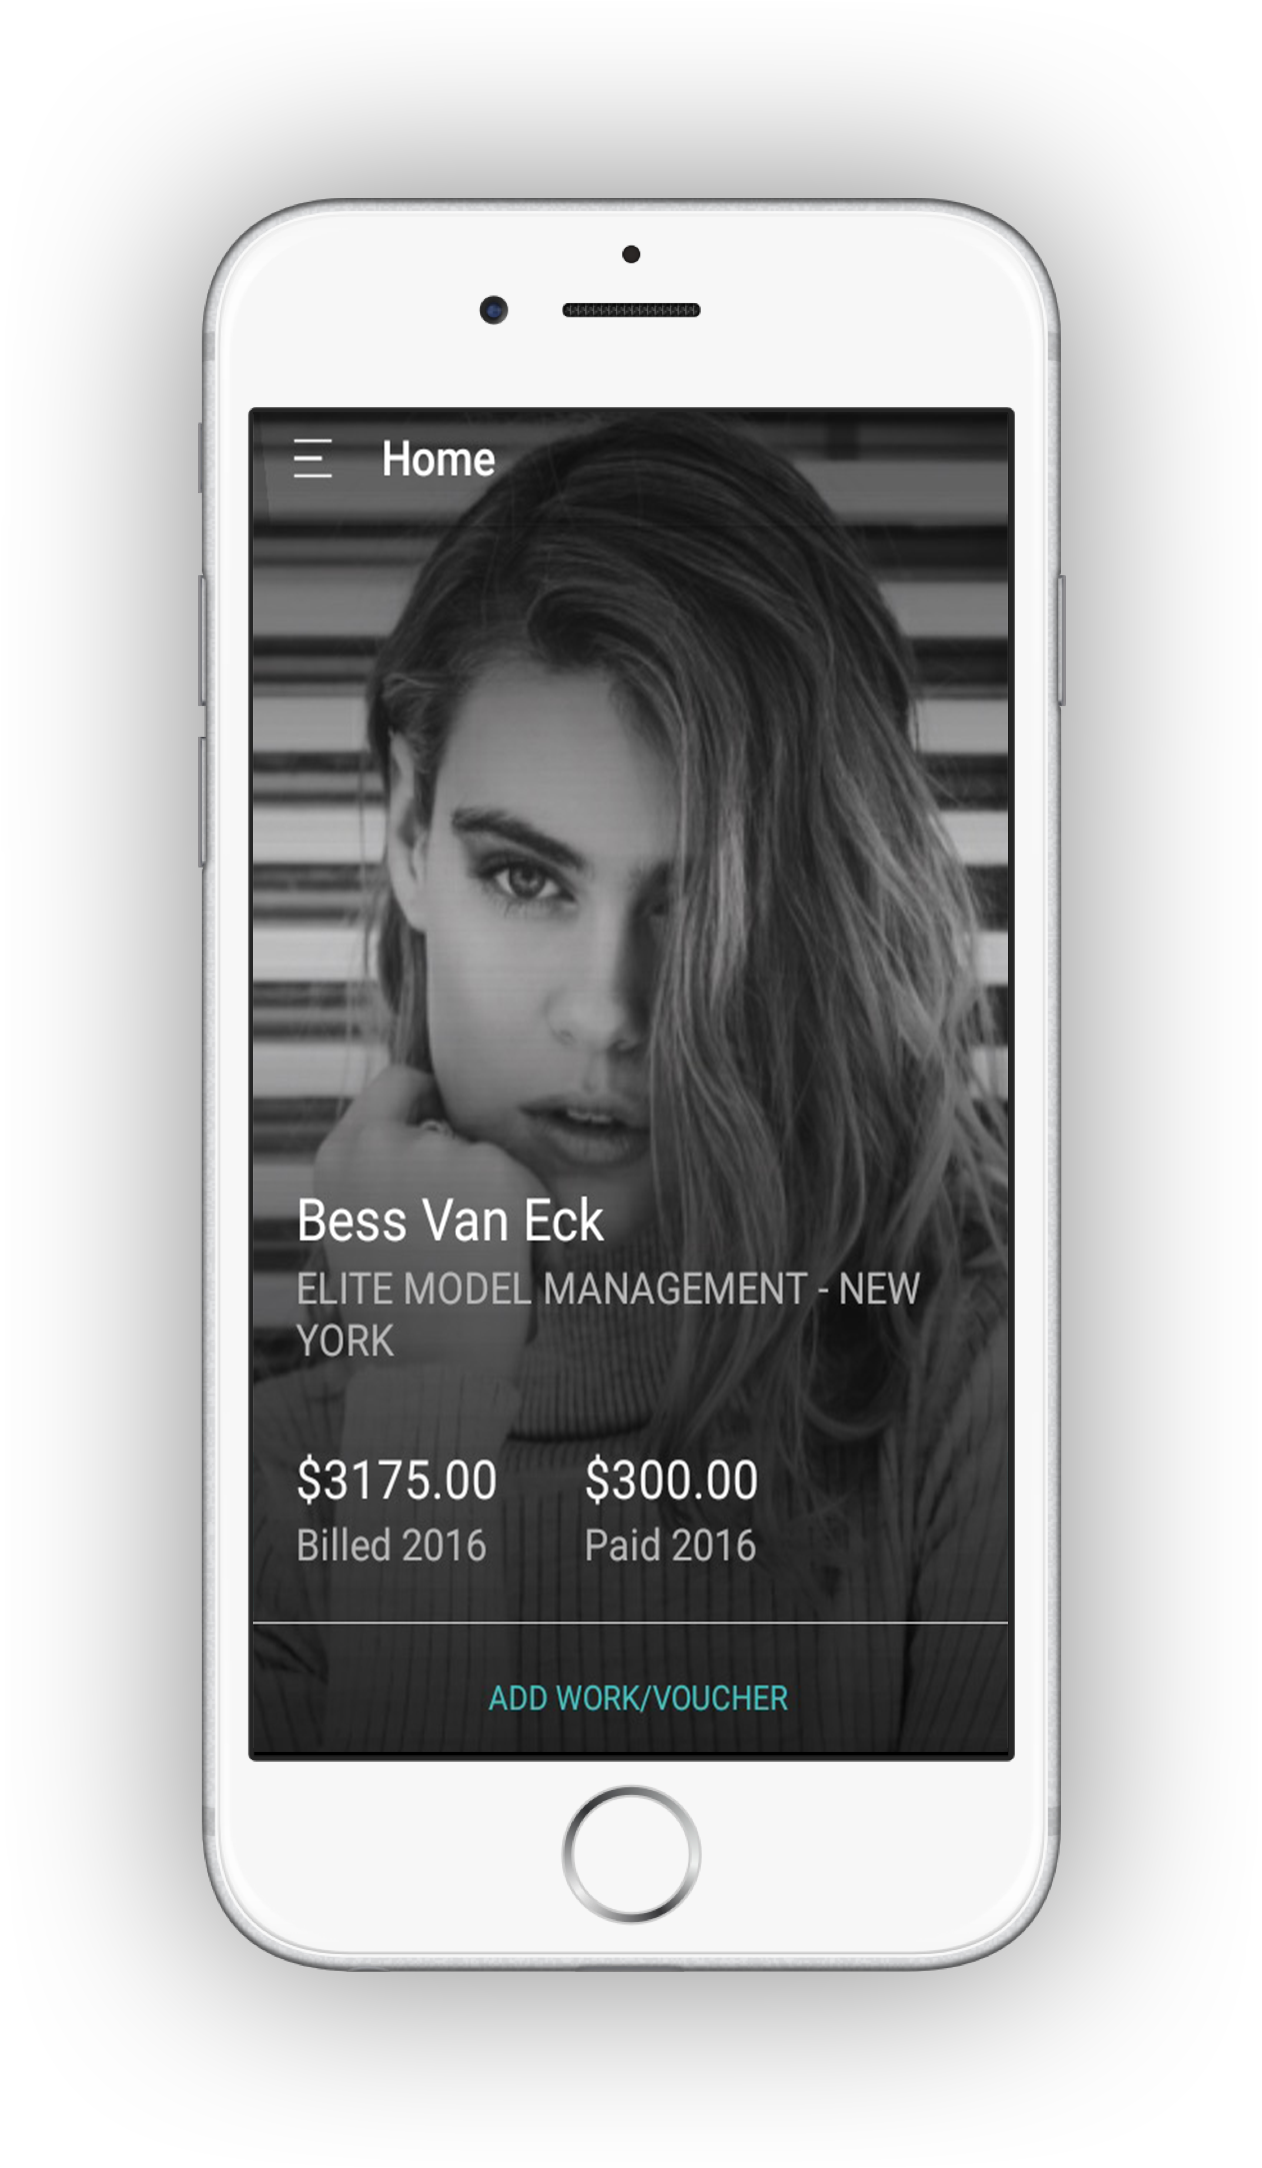
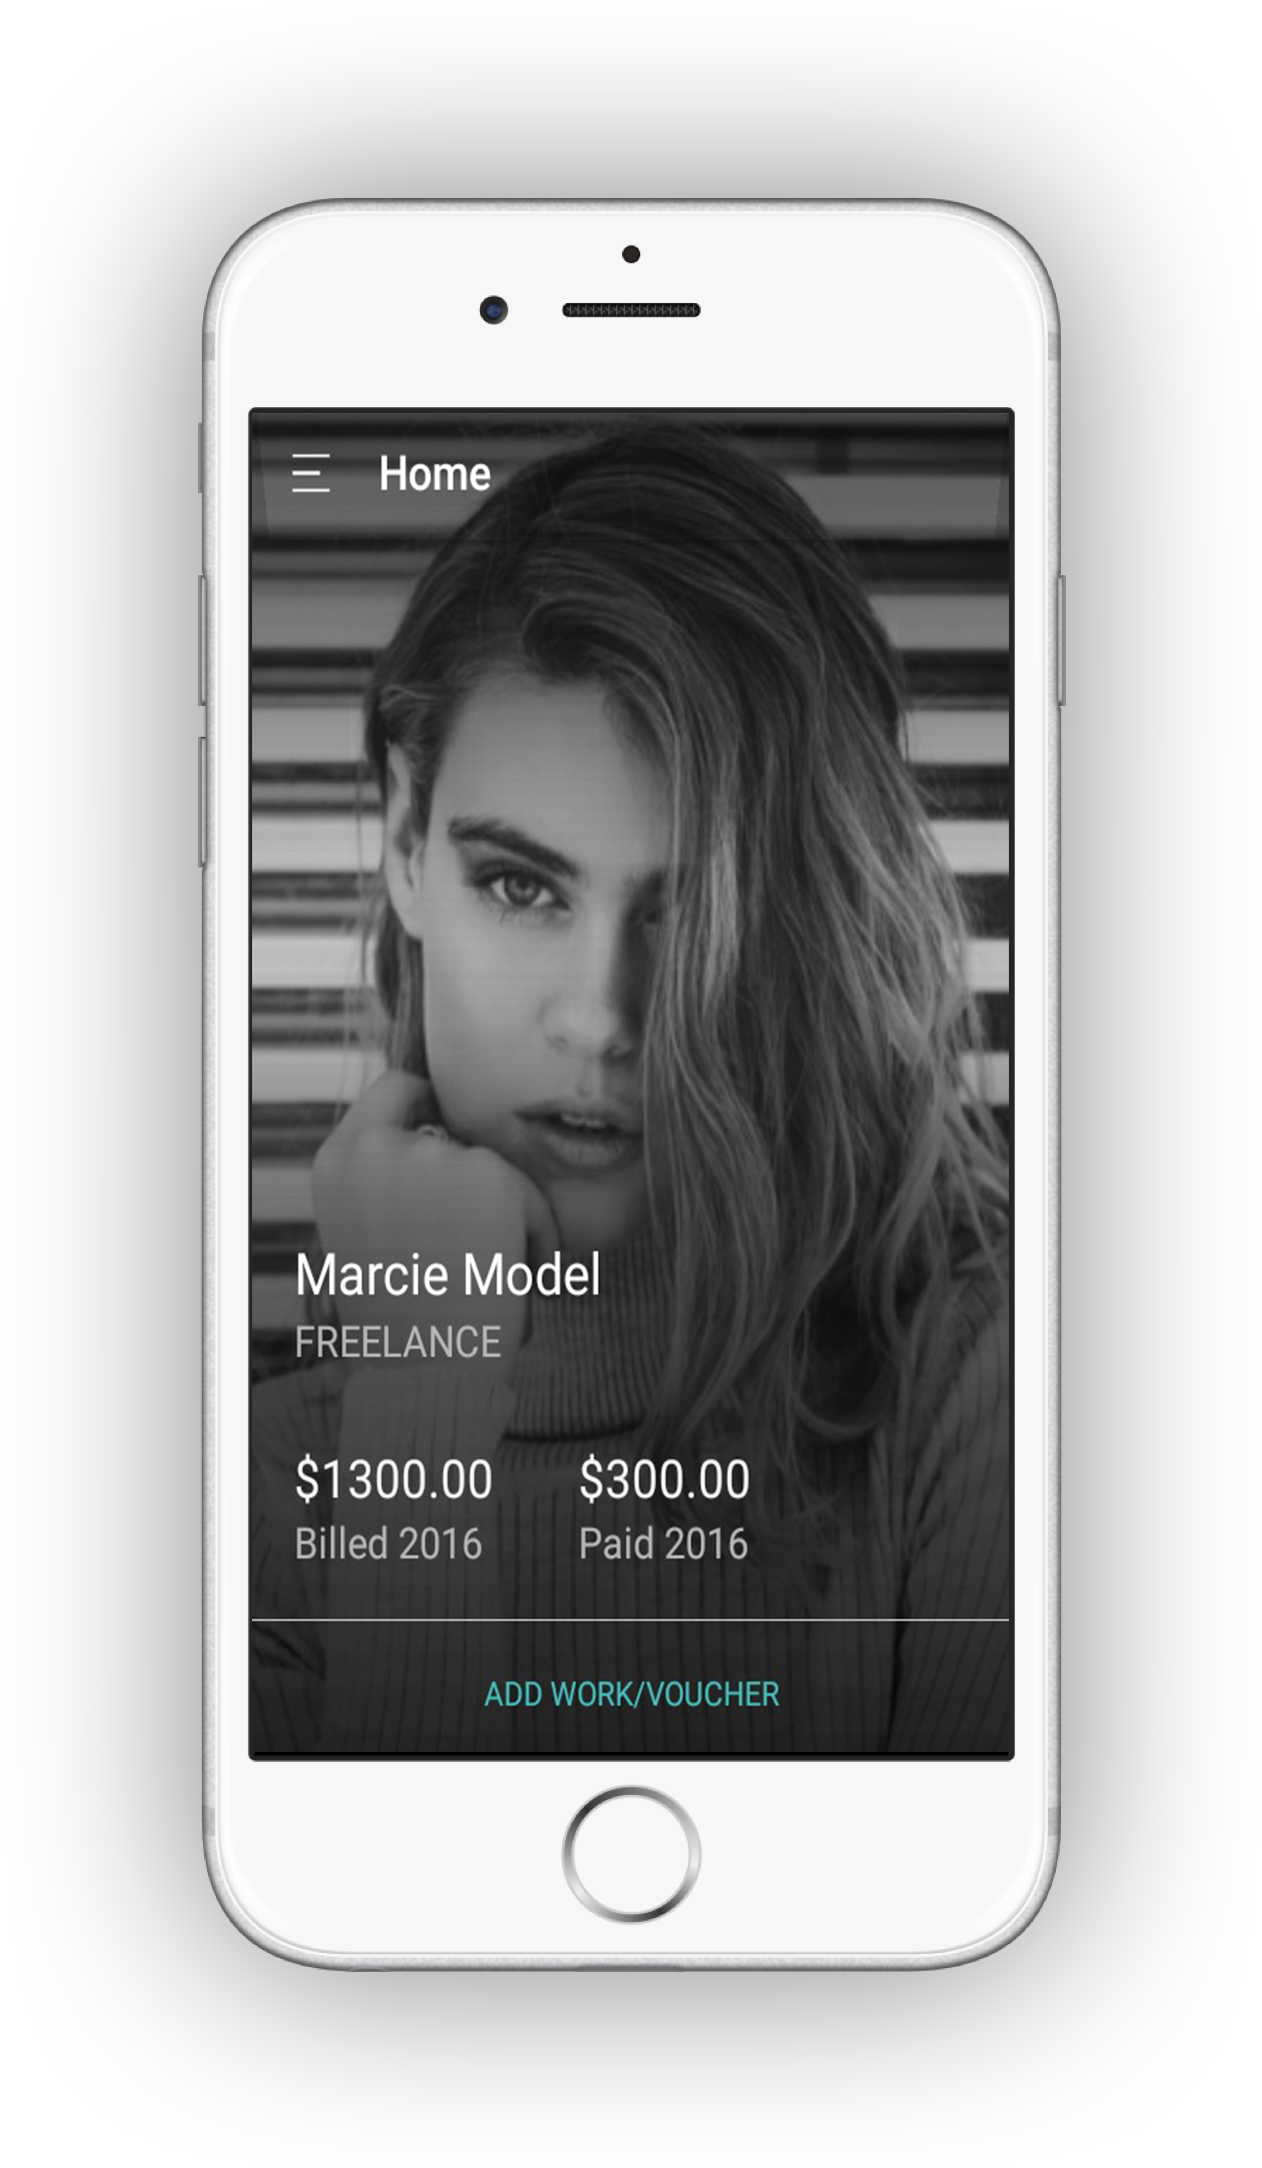
Small additional changes - subbing out for new anonymous screen shots for phone imgs. Footer color messing too.

diff --git a/css/styles.css b/css/styles.css
@@ -167,7 +167,7 @@ span {
 }
 
 .titleImg02 {
-  background: url('titleImg02login.png') no-repeat;
+  background: url('homeViewHorizontalePullOut.png') no-repeat;
   background-position: center bottom;
   background-size: contain;
   width: 631px;
@@ -214,7 +214,7 @@ span {
 }
 
 .vouchersViewImg {
-  background: url('vouchersView.png') no-repeat;
+  background: url('voucherView.png') no-repeat;
   background-size: contain;
   background-position: left bottom;
   width: 324px;
@@ -363,7 +363,7 @@ span {
   width: 100%;
   position: relative;
   overflow: hidden;
-  background-color: #00c0ce;
+  background-color: #F56954;
   border-top: 0.5px solid #fff;
 }
 
@@ -381,8 +381,9 @@ span {
   text-align: left;
 }
 
-.copyright a {
+.copyright a:hover {
   border-top: none !important;
+  color: #00c0ce !important;
 }
 
 .rightSide {
@@ -402,6 +403,10 @@ span {
   margin-left: 28px;
   vertical-align: top;
   text-align: right;
+}
+
+.footerLink a:hover {
+  color: #00c0ce !important;
 }
 
 
